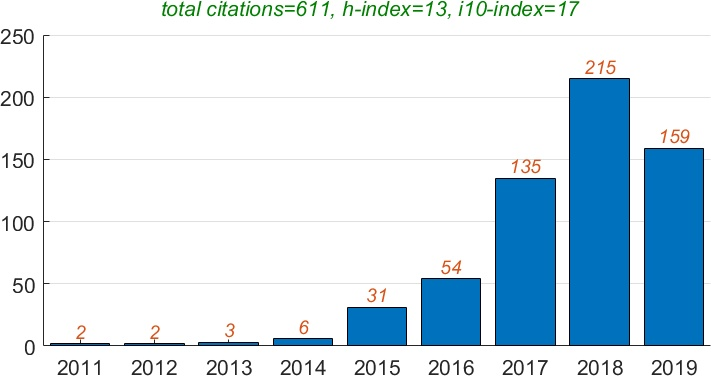
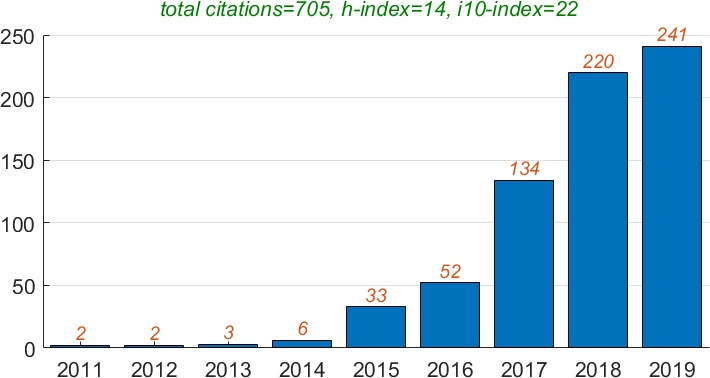
1

diff --git a/_pages/about-backup-191207.md b/_pages/about-backup-191207.md
@@ -1,0 +1,41 @@
+---
+layout: about
+permalink: /
+title: <strong>Mingjian</strong> Cui (崔明建)
+description: <a href="https://www.smu.edu/Lyle/Departments/EE">Department of Electrical and Computer Engineering</a>, <a href="https://www.smu.edu/">Southern Methodist University (SMU)</a>.
+
+profile:
+align: right
+image: prof_pic.jpg
+address: >
+<p>6251 Airline Rd. #348</p> <p>Dallas, TX 75275, USA</p> <!--<p>Phone: (469) 805-1156</p>-->
+
+news: true
+social: true
+---
+
+Dr. Mingjian Cui is a Research Assistant Professor working with <a href="https://sites.google.com/site/eejhwang/" target="\_blank">Prof. Jianhui Wang</a> at <a href="https://www.smu.edu/" target="\_blank">Southern Methodist University (SMU)</a>, Dallas, TX, USA, since May 2019. From November 2017 to April 2019, he was a Postdoctoral Research Associate at SMU. He received the B.E. and Ph.D. degrees from <a href="http://en.whu.edu.cn/" target="\_blank">Wuhan University</a>, Wuhan, Hubei, China, all in the electrical engineering and automation, in 2010 and 2015, respectively. He was a Postdoctoral Research Associate at <a href="https://www.utdallas.edu/" target="\_blank">the University of Texas at Dallas (UTD)</a>, Richardson, TX, USA, from 2016 to 2017, and also a Visiting Scholar from 2014 to 2015 in the Transmission and Grid Integration Group (TGIG) at the <a href="https://www.nrel.gov/" target="\_blank">National Renewable Energy Laboratory (NREL)</a>, Golden, CO, USA. His research interests include renewable energy, smart grid, machine learning, data analytics, power system operation, PMU, optimization modeling, electricity market, cybersecurity, and load modeling. He has authored/coauthored more than 50 peer-reviewed publications. He serves as an Associate Editor for the journals of <a href="https://digital-library.theiet.org/journals/iet-stg/editorial-board" target="\_blank">IET SMART GRID</a> and <a href="https://ieeeaccess.ieee.org/editorial-leadership-and-staff/associate-editors/" target="\_blank">IEEE ACCESS</a>. He is <a href="https://ieeexplore.ieee.org/stamp/stamp.jsp?tp=&arnumber=8595472" target="\_blank">the Best Reviewer of the IEEE TRANSACTIONS ON SMART GRID for 2018</a>. He is also a Senior Member of IEEE.
+
+<!--I am a first-year Masters student at the [Language Technologies Institute](https://www.lti.cs.cmu.edu/) at [Carnegie Mellon University](https://www.cmu.edu/). My current research involves investigating entrainment in code-mixed dialogues, and I am being co-advised by [Alan Black](http://www.cs.cmu.edu/~awb/) and [Yulia Tsvetkov](http://www.cs.cmu.edu/~ytsvetko/). My work is mainly supported by the [NSF Graduate Research Fellowship](https://www.nsfgrfp.org/).
+
+Generally, I am interested in multilingual NLP and speech processing, low-resource language technology, non-native speech usage, code-mixing, and linguistics (specifically phonology and morphology).
+
+Recently, I was at SRI International, working in their Speech Technology and Research Lab. Prior to that, I graduated from Wellesley College in 2016, where I studied Cognitive & Linguistic Sciences with a concentration in Computer Science. My [Honors Thesis](https://github.com/wellesleynlp/emilythesis) involved using machine learning to classify foreign accents of non-native English speech.
+
+When I'm not working, I like to dance, take photos of handmade [felted animals](https://www.instagram.com/lintbuddies/), and read the latest novels by my talented friend, [Valentino Mori](https://valentinomori.weebly.com/). Once upon a time, I did taekwondo and rowing for sport. -->
+
+
+<strong>Google Scholar as of December 2019.
+
+<img src="assets/img/citations.jpg" height="300">
+
+
+<!--<div class="img_row">
+<img class="col one first" src="{{ site.baseurl }}/assets/img/citations.jpg">
+<img class="col one" src="{{ site.baseurl }}/assets/img/yamaha.jpg">
+<img class="col one last" src="{{ site.baseurl }}/assets/img/phipps_eng.jpg">
+</div> -->
+
+<!-- <img src="assets/img/cmu_lti.jpg" height="170">
+<img src="assets/img/sf_charlie2.jpg" height="170">
+<img src="assets/img/yamaha.jpg" height="170"> -->

diff --git a/_pages/about.md b/_pages/about.md
@@ -5,10 +5,10 @@ title: <strong>Mingjian</strong> Cui (崔明建)
 description: <a href="https://www.smu.edu/Lyle/Departments/EE">Department of Electrical and Computer Engineering</a>, <a href="https://www.smu.edu/">Southern Methodist University (SMU)</a>.
 
 profile:
-  align: right
-  image: prof_pic.jpg
-  address: >
-    <p>6251 Airline Rd. #348</p> <p>Dallas, TX 75275, USA</p> <!--<p>Phone: (469) 805-1156</p>-->
+align: right
+image: prof_pic.jpg
+address: >
+<p>6251 Airline Rd. #348</p> <p>Dallas, TX 75275, USA</p> <!--<p>Phone: (469) 805-1156</p>-->
 
 news: true
 social: true
@@ -25,15 +25,15 @@ Recently, I was at SRI International, working in their Speech Technology and Res
 When I'm not working, I like to dance, take photos of handmade [felted animals](https://www.instagram.com/lintbuddies/), and read the latest novels by my talented friend, [Valentino Mori](https://valentinomori.weebly.com/). Once upon a time, I did taekwondo and rowing for sport. -->
 
 
-<strong>Google Scholar as of May 2019.
+<strong>Google Scholar as of December 2019.
 
 <img src="assets/img/citations.jpg" height="300">
 
 
 <!--<div class="img_row">
-    <img class="col one first" src="{{ site.baseurl }}/assets/img/citations.jpg">
-    <img class="col one" src="{{ site.baseurl }}/assets/img/yamaha.jpg">
-    <img class="col one last" src="{{ site.baseurl }}/assets/img/phipps_eng.jpg">
+<img class="col one first" src="{{ site.baseurl }}/assets/img/citations.jpg">
+<img class="col one" src="{{ site.baseurl }}/assets/img/yamaha.jpg">
+<img class="col one last" src="{{ site.baseurl }}/assets/img/phipps_eng.jpg">
 </div> -->
 
 <!-- <img src="assets/img/cmu_lti.jpg" height="170">
